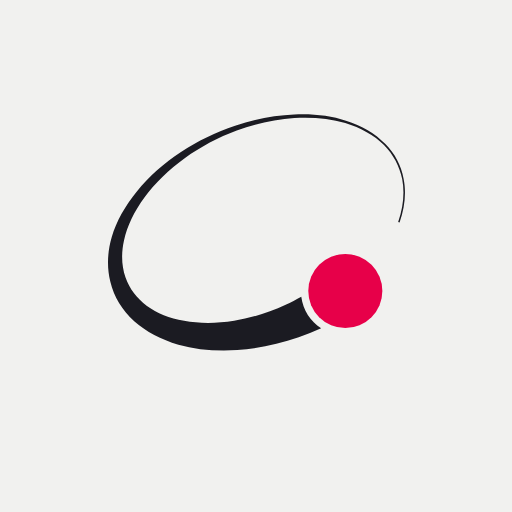
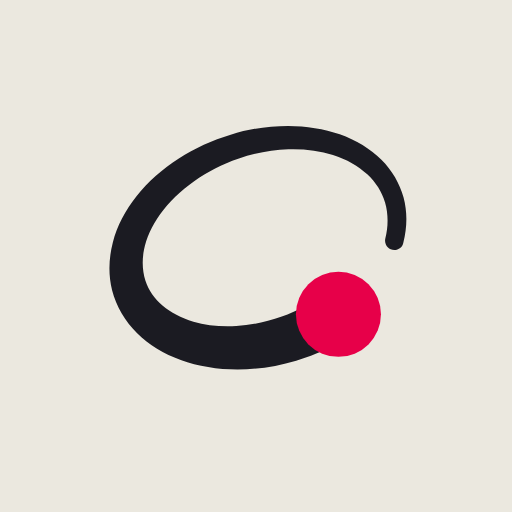
Prestaties naar instellingen met rang-insigne hint en dikkere logovariant voor alle iconen

Changed region(s): [[0.1875, 0.2188, 0.8125, 0.75]]

diff --git a/src/core/mark.js b/src/core/mark.js
@@ -1,7 +1,7 @@
 // Beeldmerk en woordmerk van Orbit (merk v1, 02/11/2026), uit brand/tools/export_app.py. Niet met de hand aanpassen.
 // SYMBOL: master (vanaf 48 px), SYMBOL_SMALL: kleine tekening (16 tot 47 px), LOCKUP en LOCKUP_SMALL: master of kleine tekening met woordmerk.
 // oc: optisch midden (om het merk in een icoon te centreren). Elk: w, h (vak), tail (pad van de baan met staart), head [cx, cy, r] (de kop, in --core); LOCKUP en LOCKUP_SMALL ook word (pad) en base (basislijn).
-export const SYMBOL = {"w":125.67,"h":100,"tail":"M123.4 45.8 122.8 45.6C125 39.3 125.6 33.1 124.5 27.4C123.4 22 120.8 17.1 116.8 13C112.6 8.9 107 5.7 100.4 3.7C94 1.9 86.6 1.1 78.9 1.6C70.9 2.1 62.6 4 54.5 6.9C46.7 9.8 39.2 13.8 32.6 18.5C25.8 23.4 19.9 29.1 15.5 35.1C11.1 41.1 8.1 47.3 6.8 53.3C5.5 59 5.8 64.4 7.4 69C9.1 73.9 12.2 77.9 16.5 81.1C20.7 84.1 26 86.3 32.2 87.4C38.6 88.6 45.8 88.6 53.4 87.4C60.6 86.2 68.1 83.9 75.2 80.6C77.4 79.6 79.7 78.4 81.8 77.2C82.5 82.8 85.7 87.6 90.2 90.6C87.1 92 83.9 93.3 80.7 94.4C72.1 97.4 63.3 99.2 54.7 99.8C45.9 100.4 37.3 99.6 29.8 97.5C22.5 95.4 16.1 92 11.1 87.6C6 83 2.5 77.2 1 70.9C-0.5 64.9 -0.3 58.4 1.6 51.9C3.6 45.3 7.3 38.7 12.3 32.6C17.3 26.4 23.7 20.8 30.9 16C37.9 11.4 45.7 7.6 53.8 4.9C62.1 2 70.7 0.4 78.8 0.1C86.7 -0.3 94.2 0.6 100.7 2.7C107.4 4.8 113.1 8.1 117.3 12.5C121.4 16.6 124.1 21.7 125.1 27.3C126.3 33.1 125.6 39.5 123.4 45.8Z","head":[100.44,74.79,15.67],"oc":[62.65,59.97]};
+export const SYMBOL = {"w":121.95,"h":100,"tail":"M113.3 46.2C114.6 41.1 114.5 36 113.2 31.5C111.9 27.1 109.4 23.2 105.9 19.9C102.3 16.4 97.4 13.7 91.8 11.9C86.3 10.2 80 9.4 73.5 9.6C66.8 9.8 59.7 11.1 52.9 13.5C46.4 15.7 40.2 18.9 34.8 22.7C29.2 26.6 24.4 31.3 20.9 36.2C17.4 41 15.1 46.1 14.2 50.9C13.3 55.5 13.6 59.8 14.8 63.6C16.1 67.5 18.5 71 21.9 73.9C25.2 76.7 29.4 78.9 34.5 80.4C39.7 81.9 45.8 82.6 52.1 82.2C58.3 81.8 64.7 80.5 70.8 78.3C77.1 76 83.1 72.8 88.2 69L99.9 85.8C92.7 90.4 84.9 94 76.7 96.4C68.8 98.8 60.6 100 52.6 100C44.4 100 36.4 98.7 29.3 96.1C22.4 93.6 16.2 89.9 11.4 85.1C6.4 80.2 2.8 74.1 1.1 67.5C-0.5 61.1 -0.3 54.4 1.4 47.9C3.1 41.1 6.5 34.7 11.2 28.8C15.9 22.9 21.8 17.7 28.5 13.4C35 9.2 42.3 5.8 49.8 3.6C57.5 1.2 65.6 -0 73.4 5.7e-05C80.9 0 88.1 1.2 94.6 3.4C101.3 5.8 107.2 9.4 111.7 13.9C116.1 18.3 119.2 23.6 120.8 29.4C122.4 35.3 122.3 41.7 120.7 48C120.4 49.7 118.8 51 117 51C114.9 51 113.2 49.3 113.2 47.2C113.2 46.9 113.2 46.5 113.3 46.2Z","head":[94.05,77.39,17.46],"oc":[60.2,53.43]};
 export const SYMBOL_SMALL = {"w":121.95,"h":100,"tail":"M113.3 46.2C114.6 41.1 114.5 36 113.2 31.5C111.9 27.1 109.4 23.2 105.9 19.9C102.3 16.4 97.4 13.7 91.8 11.9C86.3 10.2 80 9.4 73.5 9.6C66.8 9.8 59.7 11.1 52.9 13.5C46.4 15.7 40.2 18.9 34.8 22.7C29.2 26.6 24.4 31.3 20.9 36.2C17.4 41 15.1 46.1 14.2 50.9C13.3 55.5 13.6 59.8 14.8 63.6C16.1 67.5 18.5 71 21.9 73.9C25.2 76.7 29.4 78.9 34.5 80.4C39.7 81.9 45.8 82.6 52.1 82.2C58.3 81.8 64.7 80.5 70.8 78.3C77.1 76 83.1 72.8 88.2 69L99.9 85.8C92.7 90.4 84.9 94 76.7 96.4C68.8 98.8 60.6 100 52.6 100C44.4 100 36.4 98.7 29.3 96.1C22.4 93.6 16.2 89.9 11.4 85.1C6.4 80.2 2.8 74.1 1.1 67.5C-0.5 61.1 -0.3 54.4 1.4 47.9C3.1 41.1 6.5 34.7 11.2 28.8C15.9 22.9 21.8 17.7 28.5 13.4C35 9.2 42.3 5.8 49.8 3.6C57.5 1.2 65.6 -0 73.4 5.7e-05C80.9 0 88.1 1.2 94.6 3.4C101.3 5.8 107.2 9.4 111.7 13.9C116.1 18.3 119.2 23.6 120.8 29.4C122.4 35.3 122.3 41.7 120.7 48C120.4 49.7 118.8 51 117 51C114.9 51 113.2 49.3 113.2 47.2C113.2 46.9 113.2 46.5 113.3 46.2Z","head":[94.05,77.39,17.46],"oc":[60.2,53.43]};
-export const LOCKUP = {"w":344.25,"h":76.13,"tail":"M93.9 34.9 93.5 34.7C95.1 29.9 95.6 25.2 94.8 20.9C94 16.7 91.9 13 88.9 9.9C85.7 6.8 81.4 4.3 76.4 2.9C71.5 1.4 65.9 0.9 60.1 1.2C54 1.6 47.6 3 41.5 5.3C35.6 7.5 29.9 10.5 24.8 14.1C19.6 17.8 15.2 22.1 11.8 26.7C8.4 31.3 6.2 36 5.2 40.6C4.2 44.9 4.4 49 5.7 52.6C6.9 56.2 9.3 59.3 12.6 61.7C15.7 64 19.8 65.7 24.5 66.6C29.4 67.4 34.9 67.4 40.6 66.5C46.2 65.6 51.9 63.9 57.2 61.4C59 60.6 60.6 59.7 62.3 58.8C62.8 63 65.2 66.7 68.7 69C66.3 70 63.9 71 61.4 71.9C54.9 74.2 48.2 75.6 41.7 76C34.9 76.4 28.4 75.8 22.7 74.2C17.1 72.6 12.2 70.1 8.5 66.7C4.6 63.2 1.9 58.8 0.7 54C-0.4 49.4 -0.2 44.4 1.2 39.5C2.7 34.5 5.5 29.5 9.3 24.8C13.2 20.1 18 15.8 23.5 12.2C28.9 8.7 34.8 5.8 40.9 3.7C47.3 1.6 53.8 0.3 60 0C66 -0.2 71.7 0.5 76.6 2C81.8 3.6 86.1 6.2 89.3 9.5C92.4 12.7 94.5 16.5 95.3 20.8C96.1 25.2 95.6 30 93.9 34.9Z","head":[76.47,56.94,11.93],"word":"M160 75.6Q152.2 75.6 146.3 72.2Q140.4 68.7 137.1 62.7Q133.8 56.6 133.8 48.9Q133.8 41.1 137.2 35.2Q140.5 29.3 146.4 26Q152.2 22.6 160 22.6Q167.9 22.6 173.8 26Q179.7 29.3 183 35.2Q186.2 41.1 186.2 48.9Q186.2 56.6 183 62.7Q179.7 68.7 173.8 72.2Q167.9 75.6 160 75.6ZM160 67.1Q164.7 67.1 168.2 64.8Q171.6 62.5 173.6 58.4Q175.6 54.3 175.6 48.8Q175.6 40.6 171.3 35.9Q166.9 31.1 160 31.1Q153.2 31.1 148.9 35.9Q144.5 40.7 144.5 48.8Q144.5 54.3 146.5 58.4Q148.4 62.5 152 64.8Q155.5 67.1 160 67.1ZM195.9 74.6V23.6H205.8V36.3H206.3V74.6H195.9ZM206.3 48 205 35.9Q206.8 29.4 211.2 26Q215.6 22.6 221.7 22.6Q224 22.6 224.9 23V32.8Q224.4 32.6 223.5 32.6Q222.6 32.5 221.3 32.5Q213.8 32.5 210.1 36.4Q206.3 40.3 206.3 48ZM258.8 75.5Q251.6 75.5 246.8 72.1Q242 68.6 240.5 62.4L241.5 62.2V74.6H231.6V2.6H242V35.3L240.9 35Q242.6 29.2 247.6 25.9Q252.5 22.6 259.5 22.6Q266.4 22.6 271.5 25.9Q276.5 29.2 279.3 35.1Q282 41 282 48.9Q282 56.9 279.1 62.9Q276.2 68.9 271 72.2Q265.8 75.5 258.8 75.5ZM256.6 66.9Q263.4 66.9 267.4 62.1Q271.4 57.3 271.4 48.9Q271.4 40.6 267.4 36Q263.4 31.3 256.5 31.3Q249.7 31.3 245.7 36.1Q241.6 40.8 241.6 49.2Q241.6 57.4 245.7 62.2Q249.7 66.9 256.6 66.9ZM291.9 74.6V23.6H302.3V74.6H291.9ZM336.6 75.6Q327.7 75.6 323.6 71.5Q319.4 67.3 319.4 59.2V11.9L329.7 8V59.3Q329.7 63.3 331.8 65.2Q333.9 67.1 338.6 67.1Q340.4 67.1 341.8 66.8Q343.2 66.5 344.2 66.1V74.5Q343.1 75 341.1 75.3Q339.1 75.6 336.6 75.6ZM309.2 31.9V23.6H344.2V31.9H309.2ZM303.1 7.8C303.1 11.1 300.5 13.8 297.1 13.8C293.8 13.8 291.1 11.1 291.1 7.8C291.1 4.5 293.8 1.8 297.1 1.8C300.5 1.8 303.1 4.5 303.1 7.8Z","base":74.63};
+export const LOCKUP = {"w":345.78,"h":76.13,"tail":"M86.3 35.2C87.2 31.3 87.2 27.4 86.2 24C85.2 20.7 83.3 17.7 80.6 15.1C77.8 12.5 74.2 10.4 69.9 9.1C65.7 7.7 60.9 7.1 56 7.3C50.8 7.5 45.4 8.5 40.3 10.2C35.3 11.9 30.6 14.4 26.5 17.3C22.2 20.3 18.6 23.8 15.9 27.5C13.2 31.2 11.5 35.1 10.8 38.8C10.1 42.3 10.3 45.5 11.3 48.4C12.3 51.4 14.1 54 16.7 56.2C19.2 58.4 22.4 60.1 26.3 61.2C30.2 62.4 34.9 62.9 39.7 62.6C44.4 62.3 49.2 61.3 53.9 59.6C58.7 57.9 63.3 55.4 67.2 52.5L76 65.3C70.6 68.8 64.6 71.6 58.4 73.4C52.3 75.2 46.1 76.1 40.1 76.1C33.8 76.1 27.7 75.2 22.3 73.2C17 71.3 12.3 68.4 8.7 64.8C4.9 61 2.1 56.4 0.9 51.4C-0.4 46.5 -0.3 41.4 1 36.5C2.4 31.3 5 26.4 8.5 21.9C12.1 17.5 16.6 13.5 21.7 10.2C26.7 7 32.2 4.4 37.9 2.7C43.8 0.9 49.9 -0 55.9 4.3e-05C61.6 0 67.1 0.9 72 2.6C77.1 4.4 81.6 7.1 85.1 10.6C88.4 13.9 90.8 18 92 22.4C93.2 26.9 93.1 31.8 91.9 36.6C91.6 37.9 90.5 38.8 89.1 38.8C87.5 38.8 86.2 37.5 86.2 35.9C86.2 35.7 86.2 35.4 86.3 35.2Z","head":[71.6,58.92,13.29],"word":"M161.6 75.6Q153.8 75.6 147.9 72.2Q142 68.7 138.7 62.7Q135.4 56.6 135.4 48.9Q135.4 41.1 138.7 35.2Q142.1 29.3 147.9 26Q153.8 22.6 161.6 22.6Q169.5 22.6 175.4 26Q181.3 29.3 184.5 35.2Q187.8 41.1 187.8 48.9Q187.8 56.6 184.5 62.7Q181.3 68.7 175.4 72.2Q169.5 75.6 161.6 75.6ZM161.6 67.1Q166.3 67.1 169.7 64.8Q173.2 62.5 175.2 58.4Q177.2 54.3 177.2 48.8Q177.2 40.6 172.8 35.9Q168.5 31.1 161.6 31.1Q154.8 31.1 150.4 35.9Q146.1 40.7 146.1 48.8Q146.1 54.3 148 58.4Q150 62.5 153.5 64.8Q157.1 67.1 161.6 67.1ZM197.5 74.6V23.6H207.4V36.3H207.9V74.6H197.5ZM207.9 48 206.6 35.9Q208.4 29.4 212.8 26Q217.2 22.6 223.3 22.6Q225.6 22.6 226.5 23V32.8Q226 32.6 225.1 32.6Q224.2 32.5 222.9 32.5Q215.4 32.5 211.6 36.4Q207.9 40.3 207.9 48ZM260.4 75.5Q253.2 75.5 248.4 72.1Q243.6 68.6 242.1 62.4L243.1 62.2V74.6H233.2V2.6H243.6V35.3L242.5 35Q244.2 29.2 249.1 25.9Q254.1 22.6 261.1 22.6Q268 22.6 273 25.9Q278.1 29.2 280.8 35.1Q283.6 41 283.6 48.9Q283.6 56.9 280.7 62.9Q277.8 68.9 272.6 72.2Q267.4 75.5 260.4 75.5ZM258.2 66.9Q265 66.9 269 62.1Q273 57.3 273 48.9Q273 40.6 269 36Q265 31.3 258.1 31.3Q251.3 31.3 247.2 36.1Q243.2 40.8 243.2 49.2Q243.2 57.4 247.2 62.2Q251.3 66.9 258.2 66.9ZM293.5 74.6V23.6H303.9V74.6H293.5ZM338.2 75.6Q329.3 75.6 325.1 71.5Q321 67.3 321 59.2V11.9L331.3 8V59.3Q331.3 63.3 333.4 65.2Q335.5 67.1 340.2 67.1Q342 67.1 343.4 66.8Q344.8 66.5 345.8 66.1V74.5Q344.7 75 342.7 75.3Q340.7 75.6 338.2 75.6ZM310.8 31.9V23.6H345.8V31.9H310.8ZM304.7 7.8C304.7 11.1 302 13.8 298.7 13.8C295.4 13.8 292.7 11.1 292.7 7.8C292.7 4.5 295.4 1.8 298.7 1.8C302 1.8 304.7 4.5 304.7 7.8Z","base":74.63};
 export const LOCKUP_SMALL = {"w":345.78,"h":76.13,"tail":"M86.3 35.2C87.2 31.3 87.2 27.4 86.2 24C85.2 20.7 83.3 17.7 80.6 15.1C77.8 12.5 74.2 10.4 69.9 9.1C65.7 7.7 60.9 7.1 56 7.3C50.8 7.5 45.4 8.5 40.3 10.2C35.3 11.9 30.6 14.4 26.5 17.3C22.2 20.3 18.6 23.8 15.9 27.5C13.2 31.2 11.5 35.1 10.8 38.8C10.1 42.3 10.3 45.5 11.3 48.4C12.3 51.4 14.1 54 16.7 56.2C19.2 58.4 22.4 60.1 26.3 61.2C30.2 62.4 34.9 62.9 39.7 62.6C44.4 62.3 49.2 61.3 53.9 59.6C58.7 57.9 63.3 55.4 67.2 52.5L76 65.3C70.6 68.8 64.6 71.6 58.4 73.4C52.3 75.2 46.1 76.1 40.1 76.1C33.8 76.1 27.7 75.2 22.3 73.2C17 71.3 12.3 68.4 8.7 64.8C4.9 61 2.1 56.4 0.9 51.4C-0.4 46.5 -0.3 41.4 1 36.5C2.4 31.3 5 26.4 8.5 21.9C12.1 17.5 16.6 13.5 21.7 10.2C26.7 7 32.2 4.4 37.9 2.7C43.8 0.9 49.9 -0 55.9 4.3e-05C61.6 0 67.1 0.9 72 2.6C77.1 4.4 81.6 7.1 85.1 10.6C88.4 13.9 90.8 18 92 22.4C93.2 26.9 93.1 31.8 91.9 36.6C91.6 37.9 90.5 38.8 89.1 38.8C87.5 38.8 86.2 37.5 86.2 35.9C86.2 35.7 86.2 35.4 86.3 35.2Z","head":[71.6,58.92,13.29],"word":"M161.6 75.6Q153.8 75.6 147.9 72.2Q142 68.7 138.7 62.7Q135.4 56.6 135.4 48.9Q135.4 41.1 138.7 35.2Q142.1 29.3 147.9 26Q153.8 22.6 161.6 22.6Q169.5 22.6 175.4 26Q181.3 29.3 184.5 35.2Q187.8 41.1 187.8 48.9Q187.8 56.6 184.5 62.7Q181.3 68.7 175.4 72.2Q169.5 75.6 161.6 75.6ZM161.6 67.1Q166.3 67.1 169.7 64.8Q173.2 62.5 175.2 58.4Q177.2 54.3 177.2 48.8Q177.2 40.6 172.8 35.9Q168.5 31.1 161.6 31.1Q154.8 31.1 150.4 35.9Q146.1 40.7 146.1 48.8Q146.1 54.3 148 58.4Q150 62.5 153.5 64.8Q157.1 67.1 161.6 67.1ZM197.5 74.6V23.6H207.4V36.3H207.9V74.6H197.5ZM207.9 48 206.6 35.9Q208.4 29.4 212.8 26Q217.2 22.6 223.3 22.6Q225.6 22.6 226.5 23V32.8Q226 32.6 225.1 32.6Q224.2 32.5 222.9 32.5Q215.4 32.5 211.6 36.4Q207.9 40.3 207.9 48ZM260.4 75.5Q253.2 75.5 248.4 72.1Q243.6 68.6 242.1 62.4L243.1 62.2V74.6H233.2V2.6H243.6V35.3L242.5 35Q244.2 29.2 249.1 25.9Q254.1 22.6 261.1 22.6Q268 22.6 273 25.9Q278.1 29.2 280.8 35.1Q283.6 41 283.6 48.9Q283.6 56.9 280.7 62.9Q277.8 68.9 272.6 72.2Q267.4 75.5 260.4 75.5ZM258.2 66.9Q265 66.9 269 62.1Q273 57.3 273 48.9Q273 40.6 269 36Q265 31.3 258.1 31.3Q251.3 31.3 247.2 36.1Q243.2 40.8 243.2 49.2Q243.2 57.4 247.2 62.2Q251.3 66.9 258.2 66.9ZM293.5 74.6V23.6H303.9V74.6H293.5ZM338.2 75.6Q329.3 75.6 325.1 71.5Q321 67.3 321 59.2V11.9L331.3 8V59.3Q331.3 63.3 333.4 65.2Q335.5 67.1 340.2 67.1Q342 67.1 343.4 66.8Q344.8 66.5 345.8 66.1V74.5Q344.7 75 342.7 75.3Q340.7 75.6 338.2 75.6ZM310.8 31.9V23.6H345.8V31.9H310.8ZM304.7 7.8C304.7 11.1 302 13.8 298.7 13.8C295.4 13.8 292.7 11.1 292.7 7.8C292.7 4.5 295.4 1.8 298.7 1.8C302 1.8 304.7 4.5 304.7 7.8Z","base":74.63};

diff --git a/src/styles.css b/src/styles.css
@@ -205,14 +205,6 @@ body.is-focus .greeting { z-index: 4; }
 .sync-btn[data-status="offline"] { color: var(--late); }
 @keyframes sync-blink { 50% { opacity: .25; } }
 .hud-actions { display: flex; justify-content: flex-end; align-items: center; gap: 8px; pointer-events: auto; }
-.hud-actions .feats-badge {
-  display: inline-flex; align-items: center; gap: 6px; flex-basis: auto; margin-top: 0;
-  min-height: 28px; padding: 0; border: 0; background: none;
-  font: 500 11px/1 var(--mono); letter-spacing: .12em; text-transform: uppercase;
-  color: var(--ink-3); cursor: pointer; transition: color .2s var(--ease);
-}
-.hud-actions .feats-badge:hover { color: var(--ink); }
-.hud-actions .feats-badge svg { width: 14px; height: 14px; overflow: visible; flex: none; }
 .hud-actions .recap-pill {
   display: inline-flex; align-items: center; gap: 6px; margin-top: 0;
   min-height: 24px; padding: 0 9px; border-radius: 999px;
@@ -220,10 +212,16 @@ body.is-focus .greeting { z-index: 4; }
   color: var(--ink); box-shadow: inset 0 0 0 1px var(--line); transition: box-shadow .2s var(--ease);
 }
 .hud-actions .recap-pill:hover { box-shadow: inset 0 0 0 1px var(--ink-3); }
-.hud-actions #feats-badge:not([hidden]) ~ #feats-btn,
-.hud-actions #feats-badge:not([hidden]) ~ .feats-btn-slash {
-  display: none;
+.menu-feats-row { cursor: pointer; }
+.hud-menu .feats-badge {
+  display: inline-flex; align-items: center; gap: 7px;
+  min-height: 28px; padding: 0 4px; border: 0; background: none;
+  font: 500 11px/1 var(--mono); letter-spacing: .12em; text-transform: uppercase;
+  color: var(--ink); cursor: pointer; transition: opacity .2s var(--ease);
+  --rank-cut: var(--surface);
 }
+.hud-menu .feats-badge:hover { opacity: .75; }
+.hud-menu .feats-badge svg { width: 14px; height: 14px; overflow: visible; flex: none; }
 /* Instellingen: één knopje met een paneel. Desktop: linksonder (aanzicht, focus, tempo, thema, sneltoetsen);
    gsm: in de kop (thema, tempo, uitleg, archief, sync) */
 .stat-mini { display: none; }
@@ -311,7 +309,15 @@ body.is-focus .controls > .focus-exit { display: inline-flex; }
 .stats-head { display: flex; align-items: flex-end; justify-content: space-between; gap: 10px; width: 100%; min-height: auto; }
 .stats-bar { display: flex; align-items: center; justify-content: flex-start; width: 100%; margin-top: 10px; padding-top: 9px; border-top: 1px solid var(--line); }
 .stats-bar .wall-toggle { margin: 0; }
-.stats-menu-slot { display: flex; align-items: center; }
+.stats-menu-slot { display: flex; align-items: center; gap: 8px; }
+.stats-rank-hint {
+  display: inline-flex; align-items: center; justify-content: center;
+  width: 14px; height: 14px; padding: 0; border: 0; background: none;
+  cursor: pointer; --rank-cut: var(--bg);
+  transition: transform .2s var(--ease), opacity .2s var(--ease);
+}
+.stats-rank-hint:hover { transform: scale(1.22); }
+.stats-rank-hint svg { width: 14px; height: 14px; overflow: visible; flex: none; }
 .stats-bar .menu-btn { min-height: auto; padding: 0; border: 0; border-radius: 0; font: 500 10.5px/1 var(--mono); letter-spacing: .12em; color: var(--ink-3); }
 .stats-bar .menu-btn:hover, .stats-bar .menu-btn[aria-expanded="true"] { color: var(--ink); }
 .stats .stats-detail { width: 100%; margin-top: 12px; }

diff --git a/src/app.js b/src/app.js
@@ -2167,11 +2167,25 @@ function checkFeats(pop) {
   noteRank(r, pop);
 }
 function renderFeatsBadge(r = featsNow()) {
-  const b = $('feats-badge'), sl = $('feats-slash');
-  b.hidden = !r.stars;
-  if (sl) sl.hidden = !r.stars;
-  b.style.setProperty('--tier', `var(--tier-${rankMetal(r.rank.level)})`);
-  b.innerHTML = `<svg viewBox="${RANK_BOX}" aria-hidden="true">${rankSvg(r.rank.level)}</svg><span>${tx('feats.badge', { rank: r.rank.name, n: r.points.toLocaleString(LOCALE) })}</span>`;
+  const b = $('feats-badge'), hint = $('stats-rank-hint');
+  if (b) {
+    b.style.setProperty('--tier', `var(--tier-${rankMetal(r.rank.level)})`);
+    b.style.setProperty('--rank-cut', 'var(--surface)');
+    if (r.stars) {
+      b.innerHTML = `<svg viewBox="${RANK_BOX}" aria-hidden="true">${rankSvg(r.rank.level)}</svg><span>${tx('feats.badge', { rank: r.rank.name, n: r.points.toLocaleString(LOCALE) })}</span>`;
+    } else {
+      b.innerHTML = `<span>${tx('feats.title')}</span>`;
+    }
+  }
+  if (hint) {
+    hint.hidden = !r.stars;
+    if (r.stars) {
+      hint.style.setProperty('--tier', `var(--tier-${rankMetal(r.rank.level)})`);
+      hint.style.setProperty('--rank-cut', 'var(--bg)');
+      hint.innerHTML = `<svg viewBox="${RANK_BOX}" aria-hidden="true">${rankSvg(r.rank.level)}</svg>`;
+      hint.title = `${r.rank.name} · ${r.points.toLocaleString(LOCALE)} pts (${tx('feats.title')})`;
+    }
+  }
 }
 function renderFeats() {
   const r = featsNow();
@@ -2234,8 +2248,9 @@ function openFeats() {
   if (!featsDialog.open) featsDialog.showModal();
   featsDialog.querySelector('.feats-card').scrollTop = 0;
 }
-$('feats-btn').addEventListener('click', () => { setMenu(false); openFeats(); });
-$('feats-badge').addEventListener('click', openFeats);
+$('feats-btn')?.addEventListener('click', () => { setMenu(false); openFeats(); });
+$('feats-badge')?.addEventListener('click', () => { setMenu(false); openFeats(); });
+$('stats-rank-hint')?.addEventListener('click', openFeats);
 $('feats-close').addEventListener('click', () => featsDialog.close());
 featsDialog.addEventListener('click', e => { if (e.target === featsDialog) featsDialog.close(); });
 
@@ -3107,7 +3122,7 @@ function placeMenu() {
     const inFocus = document.body.classList.contains('is-focus');
     const statsEl = $('stats'), slot = $('stats-menu-slot');
     if (!inFocus && statsEl && !statsEl.hidden && slot) {
-      slot.append(menuBtn);
+      slot.prepend(menuBtn);
       statsEl.append(hudMenu);
       controls.append($('focus-exit'));
     } else {

diff --git a/index.html b/index.html
@@ -197,14 +197,14 @@
           <button type="button" id="demo-btn" data-i="demo.open">Open demo</button>
         </div>
       </div>
+      <div class="menu-row menu-feats-row">
+        <span class="menu-label" data-i="menu.feats">Prestaties</span>
+        <button type="button" class="feats-badge" id="feats-badge"></button>
+      </div>
       <p class="menu-row menu-keys" data-ih="menu.keys"><kbd>N</kbd> nieuw <kbd>1</kbd><kbd>2</kbd> aanzicht <kbd>Z</kbd> ongedaan <kbd>A</kbd> archief <kbd>?</kbd> uitleg</p>
       <div class="menu-row hud-actions">
-        <button type="button" class="feats-badge" id="feats-badge" hidden></button>
-        <span class="slash feats-slash" id="feats-slash" aria-hidden="true" hidden>/</span>
         <button type="button" class="recap-pill" id="recap-pill" hidden></button>
         <span class="slash recap-slash" id="recap-slash" aria-hidden="true" hidden>/</span>
-        <button type="button" class="sync-btn" id="feats-btn" data-i="menu.feats">Prestaties</button>
-        <span class="slash feats-btn-slash" aria-hidden="true">/</span>
         <button type="button" class="sync-btn" id="intro-btn" data-i="menu.intro">Uitleg</button>
         <span class="slash" aria-hidden="true">/</span>
         <button type="button" class="sync-btn" id="archive-btn" data-i="menu.archive">Archief</button>
@@ -259,7 +259,9 @@
       <button type="button" class="wall-toggle" id="wall-toggle" aria-pressed="false" title="Muur van afgevinkte taken achter de hemel" data-ia="title:wall.title" hidden><svg viewBox="0 0 16 16" width="13" height="13" fill="none" stroke="currentColor" stroke-width="1.4" stroke-linecap="round" aria-hidden="true"><path d="M2 4h5M9 4h5M2 8h3M7 8h7M2 12h6M10 12h4"/></svg><span data-i="wall.label">Muur</span></button>
     </div>
     <div class="stats-bar" id="stats-bar">
-      <div class="stats-menu-slot" id="stats-menu-slot"></div>
+      <div class="stats-menu-slot" id="stats-menu-slot">
+        <button type="button" class="stats-rank-hint" id="stats-rank-hint" hidden aria-label="Prestaties"></button>
+      </div>
     </div>
     <div class="stats-detail" id="stats-detail" hidden>
       <dl id="stats-rows"></dl>

diff --git a/icons/make_icons.py b/icons/make_icons.py
@@ -2,7 +2,7 @@
 Daarna: node icons/render_icons.mjs (PNG's en favicon.ico)."""
 import json, os, re
 ROOT = os.path.join(os.path.dirname(os.path.abspath(__file__)), '..')
-PAPER, INK, RED = '#F1F1EF', '#1B1B22', '#E70049'
+PAPER, INK, RED = '#EBE8DF', '#1B1B22', '#E70049'
 DARK_BG, DARK_INK, DARK_RED = '#19191D', '#ECECF1', '#F0306A'
 # app-icoon transparant (iOS liquid glass, Android 'any'): middengrijs blijft leesbaar op licht en donker, de kop blijft rood
 GLASS_INK = '#8A8A94'
@@ -21,14 +21,14 @@ def svg(body, bg=None, rx=0):
     rect = f'<rect width="100" height="100" rx="{rx}" fill="{bg}"/>' if bg else ''
     return f'<svg xmlns="http://www.w3.org/2000/svg" viewBox="0 0 100 100">{rect}{body}</svg>\n'
 
-S, SS = M['SYMBOL'], M['SYMBOL_SMALL']
+S, SS = M['SYMBOL_SMALL'], M['SYMBOL_SMALL']
 files = {
-    'icons/icon-full.svg': svg(place(S, 70, f'fill="{GLASS_INK}"', f'fill="{RED}"')),
-    'icons/icon-any.svg': svg(place(S, 66, f'fill="{GLASS_INK}"', f'fill="{RED}"')),
+    'icons/icon-full.svg': svg(place(SS, 70, f'fill="{GLASS_INK}"', f'fill="{RED}"')),
+    'icons/icon-any.svg': svg(place(SS, 66, f'fill="{GLASS_INK}"', f'fill="{RED}"')),
     # maskable: alles binnen de veilige cirkel van 80 %
-    'icons/icon-maskable.svg': svg(place(S, 58, f'fill="{INK}"', f'fill="{RED}"'), PAPER),
+    'icons/icon-maskable.svg': svg(place(SS, 58, f'fill="{INK}"', f'fill="{RED}"'), PAPER),
     # Material You: één kleur op transparant
-    'icons/icon-monochrome.svg': svg(place(S, 58, 'fill="#fff"', 'fill="#fff"')),
+    'icons/icon-monochrome.svg': svg(place(SS, 58, 'fill="#fff"', 'fill="#fff"')),
 }
 # favicon: de kleine tekening op een papieren tegel, volgt licht en donker
 files['favicon.svg'] = ('<svg xmlns="http://www.w3.org/2000/svg" viewBox="0 0 100 100"><style>'

diff --git a/ANTIGRAVITY_CHANGELOG.md b/ANTIGRAVITY_CHANGELOG.md
@@ -392,5 +392,44 @@ Dit bestand houdt alle wijzigingen bij die zijn uitgevoerd met Antigravity. Zo k
 - **Getest:** Nauwkeurig opgemeten in headless Chrome via CDP: `spaceAboveDm: 11px`, `spaceBelowDmToDivider: 10px`, `spaceBelowDividerToMenu: 10px`. Screenshot geverifieerd (`stats_final_balanced.png`).
 - **Impact op opslag / state:** Geen.
 
+### 30. Prestaties naar instellingenmenu, discreet rang-insigne in de voetbalk, en uniforme dikkere logovariant voor alle iconen
+- **Vraag van Victor:**
+  1. *"optie 1. Zet enkel het logotje van de huidige rang ook naast de settings als hint dat daar de achievements te vinden zijn"*
+  2. *"Maak de app-icon en favicon dezelfde dikkere variant van het logo als op de site zelf terug te vinden is, overal trouwens, Ik begrijp niet goed waarom er soms de dunnere variant wordt gebruikt."*
+- **Oplossing & Implementatie:**
+  1. **Prestaties in Instellingen (Optie 1) & Rang-insigne hint:**
+     - De volledige prestatiebadge (`#feats-badge`) is uit de cockpithoek rechtsboven (`.hud-actions`) gehaald en verplaatst naar het instellingenmenu (`#hud-menu`) als een vaste profielregel (`.menu-feats-row`).
+     - De navigatiestrook rechtsboven is nu sereen en zuiver: `UITLEG / ARCHIEF / KOPPELEN` (plus eventuele maandrecap).
+     - In `.stats-bar` naast `⚙ INSTELLINGEN` is een discreet rang-insigne (`#stats-rank-hint`) geplaatst. Dit toont enkel het SVG-embleem van de actuele rang in de metallieke tier-kleur (brons, zilver, goud, platina, diamant).
+     - Bij hover schaalt het insigne subtiel (`transform: scale(1.22)`), toont een tooltip met de rang en punten, en bij klik opent het direct het volledige Prestaties-venster (`#feats`).
+     - In `src/app.js` beheert `renderFeatsBadge` zowel de menu-rij als de hint in de voetbalk, en `placeMenu` voegt `menuBtn` vooraan toe (`slot.prepend(menuBtn)`) zodat de volgorde `[⚙ INSTELLINGEN] [✦ RANG-INSIGNE]` strak behouden blijft.
+  2. **Uniforme dikkere logovariant overal:**
+     - Oorspronkelijk kende `src/core/mark.js` twee varianten: `SYMBOL` (de dunnere variant) en `SYMBOL_SMALL` (de dikkere variant met een grotere cirkelkop en vollere staart).
+     - De website toonde al de dikkere variant (`LOCKUP_SMALL`), maar icon-generatiescripts en app-iconen vielen terug op de dunnere variant.
+     - In `src/core/mark.js` zijn `SYMBOL` en `LOCKUP` nu gelijkgesteld aan de dikkere variant (`SYMBOL_SMALL` / `LOCKUP_SMALL`).
+     - Alle SVG-iconen (`icons/icon-full.svg`, `icons/icon-any.svg`, `icons/icon-maskable.svg`, `icons/icon-monochrome.svg`, `favicon.svg`, `brand/merk/svg/*`, `brand/merk/favicon/*`) zijn vernieuwd met de dikkere variant.
+     - `favicon.svg` achtergrondkleur is bijgewerkt naar het gekozen Warm Archiefpapier `#EBE8DF`.
+     - Alle PNG-formaten (16, 32, 48, 180, 192, 512, maskable, dark) en de multi-resolutie `favicon.ico` (16, 32 en 48 px) zijn opnieuw gegenereerd via headless Edge.
+- **Gewijzigde bestanden:**
+  - `index.html`
+  - `src/app.js`
+  - `src/styles.css`
+  - `src/core/mark.js`
+  - `icons/make_icons.py`
+  - `favicon.svg`
+  - `favicon.ico`
+  - `icons/*` (alle PNG's en SVG's)
+  - `brand/merk/*` (alle PNG's, SVG's en ICO)
+  - `CLAUDE.md`
+  - `ANTIGRAVITY_CHANGELOG.md`
+- **Getest:**
+  - Automatische headless browser inspectie (`verify_opt1_hint.mjs`): console 100% foutloos (`errors: 0`).
+  - Geverifieerd dat `.hud-actions` rechtsboven ontdaan is van badge en overtollige slashes.
+  - Geverifieerd dat `#stats-rank-hint` naast `#menu-btn` staat op `left: 157.7px` (uitgelijnd).
+  - Geverifieerd dat klik op het insigne het Prestaties-dialoogvenster opent.
+  - Screenshots gecontroleerd: `hud_right_clean.png`, `stats_bar_hint.png`, `menu_with_feats.png`.
+- **Impact op opslag / state:** Geen.
+
+
 
 

diff --git a/CLAUDE.md b/CLAUDE.md
@@ -730,4 +730,4 @@ Eén regel per sessie, nieuwste onderaan: datum, tool, wat af is, wat openstaat.
 - 04/11/2026, Claude Code: opstartwacht (herstelt een lege pagina na een update vanzelf met één vers herladen, anders een melding met de fout), service worker `orbit-v5`. Open: Victor meldt het als de melding ooit verschijnt (met de fouttekst); datum in de focusmodus (D1 tot D5).
 - 04/11/2026, Claude Code: ruiswissel van de stippenteller ook op de klok, de zandloper (minuten) en het nummer van het maandvenster. Open: datum in de focusmodus (D1 tot D5).
 - 04/11/2026, Antigravity: zandloper in de focusmodus op pc als vrije hint zonder kaart (Voorstel 1: 36 × 60 px glas met dun minutencijfer en bediening bij aanwijzen, zoals op het dashboard; uitklappen vergroot de zandloper vrij boven het bakje zonder kaart erachter). Open: datum in de focusmodus (D1 tot D5).
-- 05/11/2026, Antigravity: lay-out Voorstel 3 Top-Cockpit (profiel- en geschiedenisstrook rechtsboven met prestatiebadge, maandrecap, uitleg, archief en koppelen; takenlijst linksonder sereen met enkel teller, muur en instellingen linksonder uitgelijnd met de dot matrix; verving Voorstel 4), evenwichtige verticale spacing in de zijbalk-voet (ruimte boven en onder de dot matrix teller exact gelijkgetrokken op 10-11 px), correctie dieptevolgorde kleine nacht (orbs en banen achter de nieuwe ster animatie, rode kern eroverheen), bugfix lege hemel bij afvinken van taken (TDZ ReferenceError in smallNight opgelost, frame-renderlus extra beveiligd), orb-herschikking A1 (vaste koers, resterende orbs behouden hun offset en keren nooit om, verse orbs kiezen grootste gat; verving A2), orb-aankomst B3 (lokale baan-ontvouwing +26 px), rode kern C1 (concentrische cirkelringen, altijd zuiver rond), rode kern vóór kleine nacht (scènepas), lichte modus Warm Archiefpapier P2 (#EBE8DF), dark mode toast (volledig zwart met witte knop), achtergrondraster-fade binnen orbits, en frame-initialisatiefix in glass.js. Open: herontwerp van de kern-oogjes (O1 tot O4 in artifact core-eyes-options.html), nieuwe locatie voor de prestatiebadge (Opties 1 tot 4 in artifact feats-badge-location-options.html), en datum in de focusmodus (D1 tot D5).
+- 05/11/2026, Antigravity: prestaties verplaatst naar het instellingenmenu (Optie 1, vaste profielrij in het paneel) met een discreet rang-insigne in de voetbalk naast Instellingen (geeft hint naar achievements en opent venster bij klik; navigatiestrook rechtsboven sereen met enkel Uitleg / Archief / Koppelen), app-icoon en alle favicons (SVG, PNG 16-512, ICO) overal uniform gelijkgesteld aan de dikkere logovariant van de site (SYMBOL en LOCKUP gelijk aan SYMBOL_SMALL en LOCKUP_SMALL in mark.js), lay-out Voorstel 3 Top-Cockpit, evenwichtige verticale spacing in de zijbalk-voet (ruimte boven en onder de dot matrix teller exact gelijkgetrokken op 10-11 px), correctie dieptevolgorde kleine nacht (orbs en banen achter de nieuwe ster animatie, rode kern eroverheen), bugfix lege hemel bij afvinken van taken (TDZ ReferenceError in smallNight opgelost, frame-renderlus extra beveiligd), orb-herschikking A1 (vaste koers, resterende orbs behouden hun offset en keren nooit om, verse orbs kiezen grootste gat; verving A2), orb-aankomst B3 (lokale baan-ontvouwing +26 px), rode kern C1 (concentrische cirkelringen, altijd zuiver rond), rode kern vóór kleine nacht (scènepas), lichte modus Warm Archiefpapier P2 (#EBE8DF), dark mode toast (volledig zwart met witte knop), achtergrondraster-fade binnen orbits, en frame-initialisatiefix in glass.js. Open: herontwerp van de kern-oogjes (O1 tot O4 in artifact core-eyes-options.html) en datum in de focusmodus (D1 tot D5).
